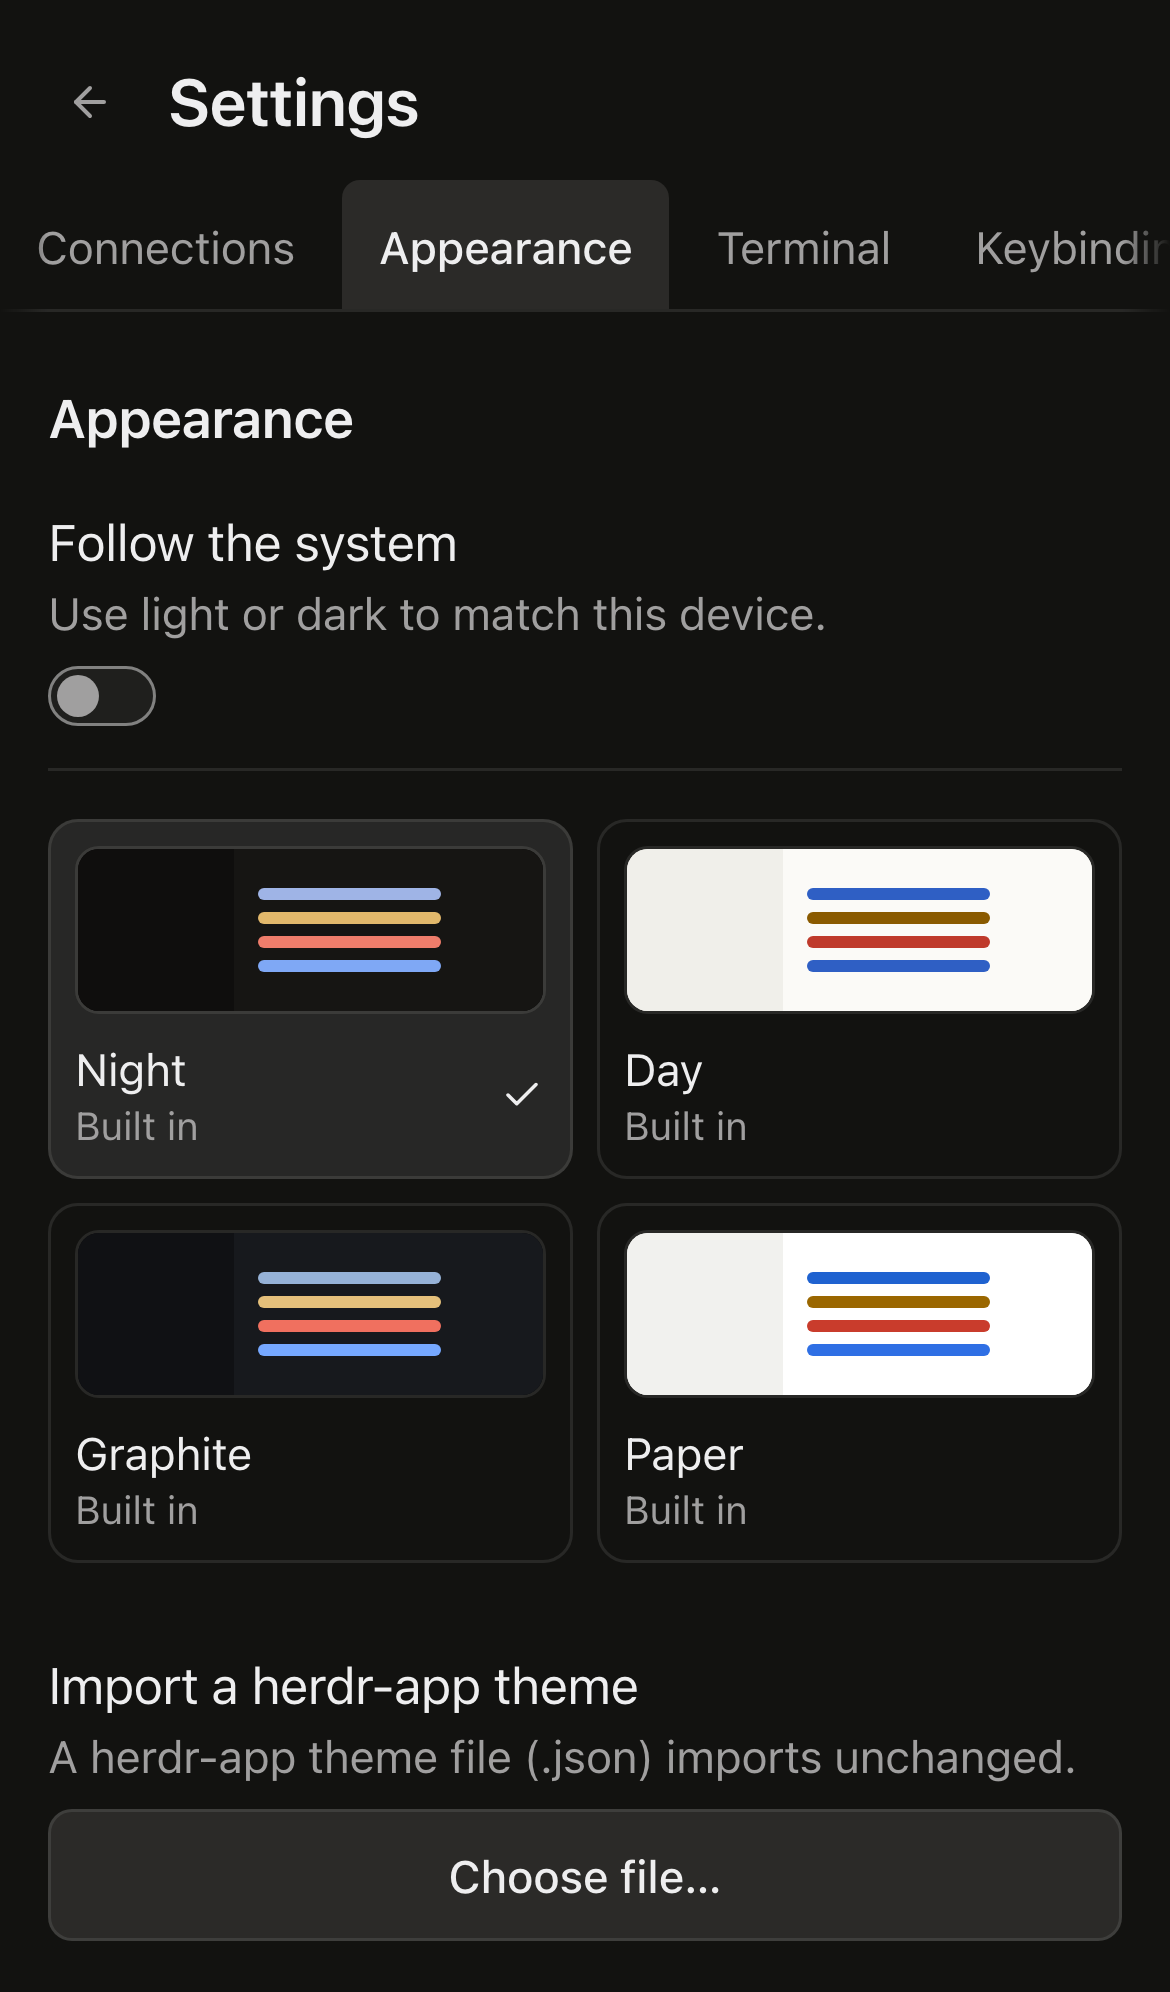
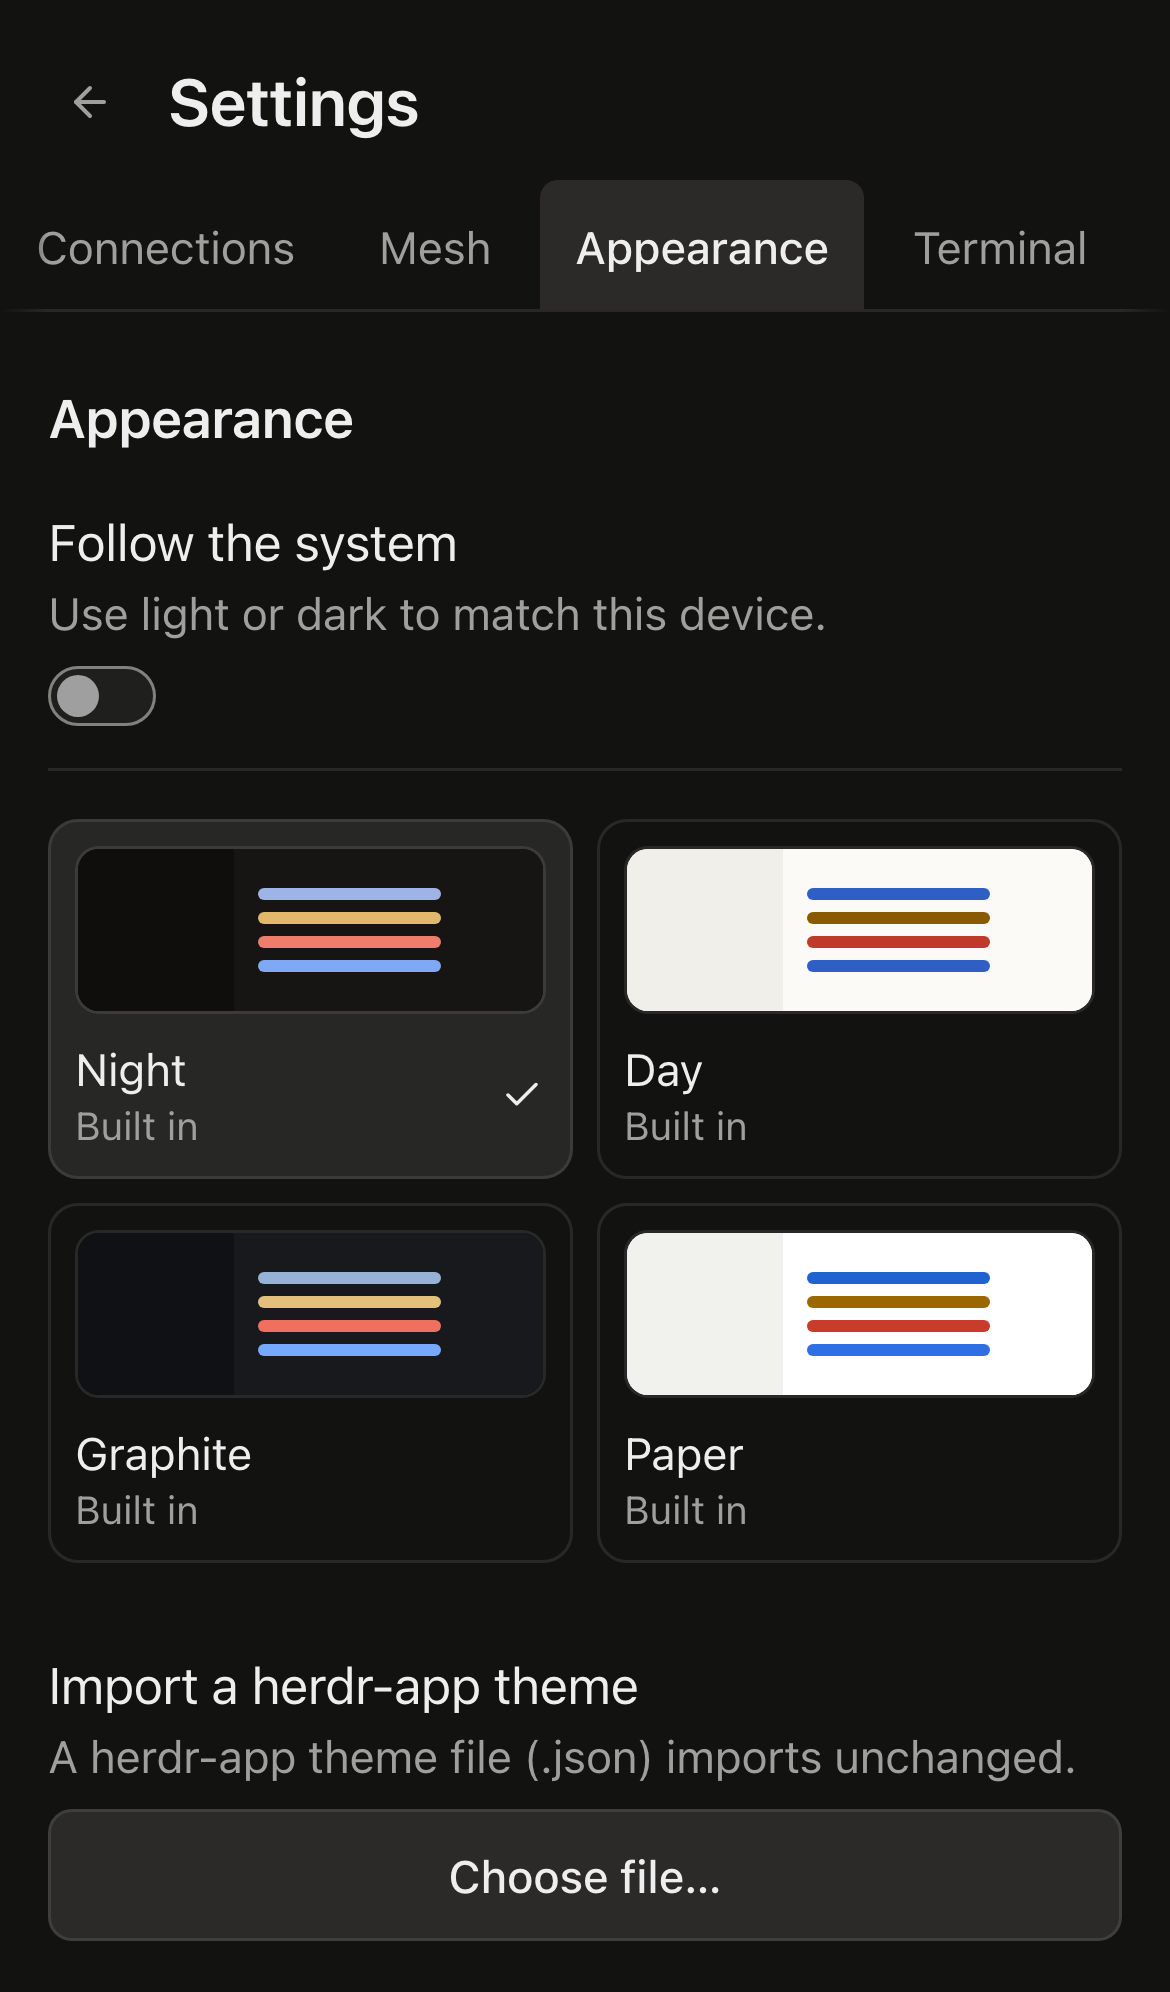
test(web): the mesh panel against a real core with the fixture status document, and its captures

Changed region(s): [[0.2769, 0.0934, 0.7385, 0.1556], [0.8, 0.0934, 0.9231, 0.1556], [0.9538, 0.1245, 0.9846, 0.1556]]

diff --git a/apps/web/e2e/mesh.e2e.ts b/apps/web/e2e/mesh.e2e.ts
@@ -1,0 +1,43 @@
+import type { Page } from "@playwright/test";
+import { expect, test } from "./fixtures.ts";
+import { machineRow, STATE_BOUND_MS } from "./machine-switch.ts";
+
+const group = (page: Page, id: string) => page.locator(`[data-mesh-group="${id}"]`);
+
+async function openMesh(page: Page): Promise<void> {
+  await page.goto("/");
+  await expect(machineRow(page)).toContainText("connected", { timeout: STATE_BOUND_MS });
+  await page.goto("/settings");
+  await page
+    .getByRole("tab", { name: "Mesh" })
+    .or(page.getByRole("button", { name: "Mesh" }))
+    .first()
+    .click();
+  await expect(page.getByRole("heading", { name: "Mesh", level: 2 }).first()).toBeVisible();
+}
+
+test("the mesh panel groups every machine of the host's status document", async ({ page }) => {
+  await openMesh(page);
+  await expect(group(page, "pending")).toContainText("ci-runner asks to join", { timeout: 20_000 });
+  await expect(group(page, "online")).toContainText("studio");
+  await expect(group(page, "online")).toContainText("build-box");
+  await expect(group(page, "offline")).toContainText("laptop");
+  await expect(group(page, "offline")).toContainText("tablet");
+  await expect(group(page, "offline")).toContainText("doriface-host mesh revoke laptop");
+  await expect(group(page, "revoked")).toContainText("kiosk");
+  await expect(group(page, "revoked")).not.toContainText("spare");
+  await expect(page.locator('[data-mesh-group^="removed-"]')).toContainText("spare");
+  await expect(page.getByText("tablet joined the mesh")).toBeVisible();
+  // build-box is connected both in the document and in this core's machine.list, so nothing disagrees.
+  await expect(page.getByText("disagrees with machine.list")).toHaveCount(0);
+});
+
+test("approving a pending join writes the answer and shows it in place", async ({ page }) => {
+  await openMesh(page);
+  const pending = group(page, "pending");
+  await pending.getByRole("button", { name: "Approve" }).click();
+  await expect(pending).toContainText("Approved; studio admits it next", { timeout: 15_000 });
+  await page.reload();
+  await openMesh(page);
+  await expect(group(page, "pending")).toContainText("Approved; studio admits it next", { timeout: 20_000 });
+});

diff --git a/apps/web/e2e/capture-shots.ts b/apps/web/e2e/capture-shots.ts
@@ -1,6 +1,7 @@
 import type { Page } from "@playwright/test";
 import { BAD_LINK, fakeRelay, PAIR_CODE, PAIR_LINK } from "./capture-relay.ts";
 import { expect } from "./fixtures.ts";
+import { machineRow, STATE_BOUND_MS } from "./machine-switch.ts";
 
 export type Width = "1440" | "390";
 /** Which stored connection a shot starts from: the e2e host, pairing against the fake relay, or none. */
@@ -48,6 +49,13 @@ const refusedWith = (closeCode: number) => async (page: Page) => {
   await expect(page.getByText("Pairing did not finish")).toBeVisible({ timeout: 15_000 });
 };
 const SETTINGS = ["Appearance", "Terminal", "Keybindings"] as const;
+/** The mesh panel once its document and the added machine it is checked against have both arrived. */
+const meshLoaded = async (page: Page) => {
+  await page.goto("/");
+  await expect(machineRow(page)).toContainText("connected", { timeout: STATE_BOUND_MS });
+  await section(page, "Mesh");
+  await expect(page.getByText("ci-runner asks to join")).toBeVisible({ timeout: 20_000 });
+};
 
 export const SHOTS: readonly Shot[] = [
   {
@@ -170,6 +178,15 @@ export const SHOTS: readonly Shot[] = [
       await scrollToEnd(page);
     },
   })),
+  { name: "settings-mesh", start: "connected", run: meshLoaded },
+  {
+    name: "settings-mesh-end",
+    start: "connected",
+    run: async (page) => {
+      await meshLoaded(page);
+      await scrollToEnd(page);
+    },
+  },
   {
     name: "storage-error",
     start: "connected",

diff --git a/apps/web/e2e/mesh-doc.ts b/apps/web/e2e/mesh-doc.ts
@@ -1,0 +1,23 @@
+// The e2e core's doriface-mesh document: the host's own status for its fixture mesh (one member in every state),
+// written through the core's JSON-RPC the way the host publishes it. The fixture keys come from fixed seeds, so the
+// names, hostIds and fingerprints in a capture are the same on every run.
+import { meshStatus } from "@doriface/host";
+import { meshFixture } from "@doriface/host/testing";
+import { MESH_STATUS_DOC } from "@doriface/protocol";
+
+export async function seedMeshDoc(
+  hc: string,
+  session: string,
+  env: Readonly<Record<string, string | undefined>>,
+): Promise<void> {
+  const now = new Date();
+  const value = meshStatus(meshFixture(now).sources, now);
+  const request = { jsonrpc: "2.0", id: 1, method: "doc.set", params: { name: MESH_STATUS_DOC, value, version: 0 } };
+  const control = Bun.spawn([hc, "connect", "--session", session], { env, stdin: "pipe", stdout: "pipe" });
+  control.stdin.write(`${JSON.stringify(request)}\n`);
+  await control.stdin.flush();
+  void control.stdin.end();
+  const reply = await new Response(control.stdout).text();
+  await control.exited;
+  if (!reply.includes('"result"')) throw new Error(`doc.set ${MESH_STATUS_DOC} failed: ${reply.slice(0, 300)}`);
+}

diff --git a/apps/web/e2e/host.ts b/apps/web/e2e/host.ts
@@ -6,6 +6,7 @@ import { join } from "node:path";
 import { E2E_HOST_ENV, E2E_HOST_PORT, E2E_LAYOUT_PORT, E2E_TOKEN } from "./config.ts";
 import { LAYOUT_CORE, LAYOUT_DIR, LAYOUT_MACHINE_SPEC, LAYOUT_TERMINALS } from "./layout-seed.ts";
 import { addMachine, runSeeds } from "./machine.ts";
+import { seedMeshDoc } from "./mesh-doc.ts";
 import { seed } from "./seed.ts";
 
 const layout = process.argv[2] === "layout";
@@ -87,6 +88,7 @@ try {
   } else {
     const capture = process.env["CAPTURE"] === "1";
     if (capture) await seed(hc, env, join(dir, "work"));
+    await seedMeshDoc(hc, session, env);
     stopMachine = await addMachine(hc, env, join(dir, "machine"), capture);
   }
 } catch (error) {
